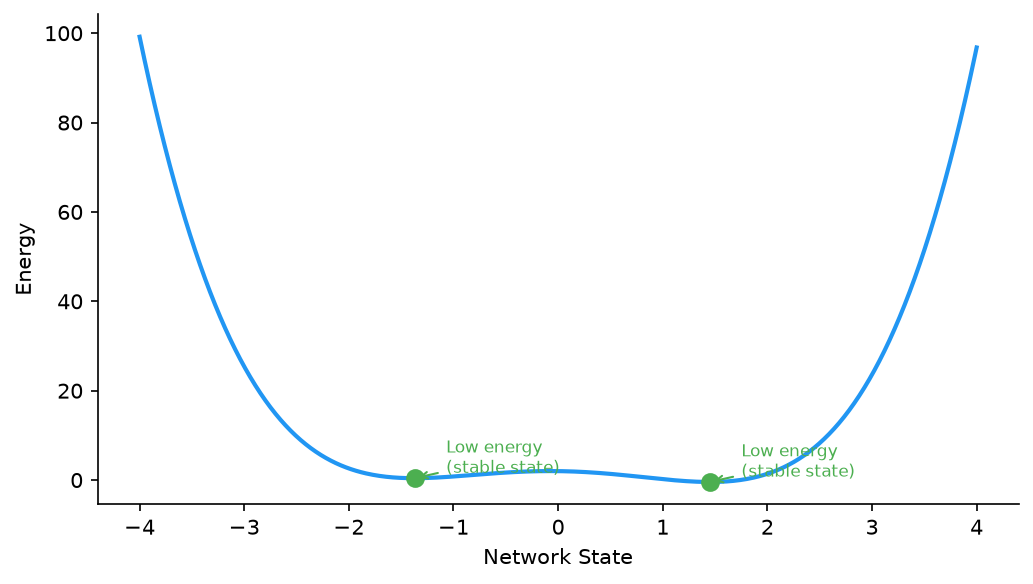
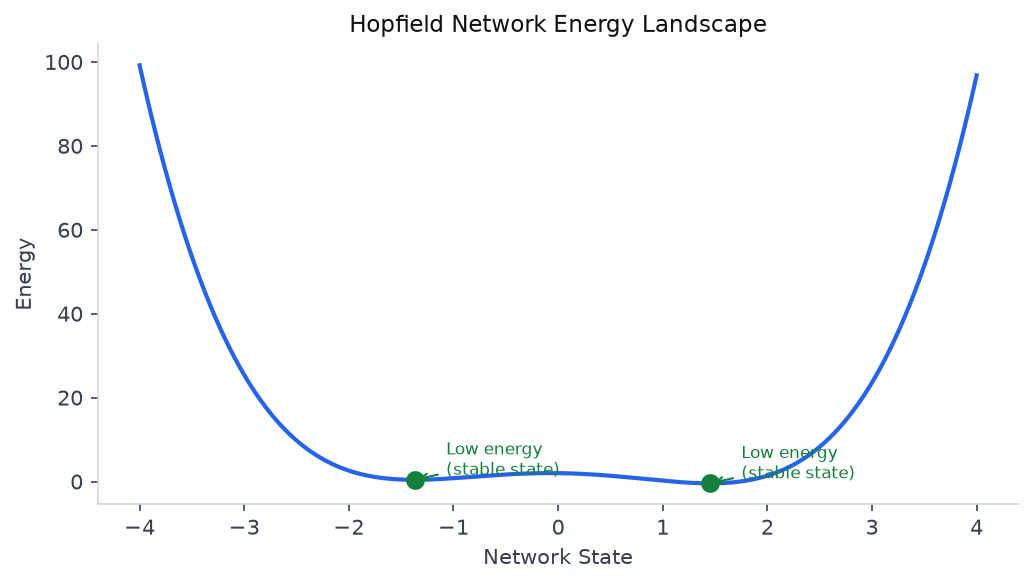
update note 08: convert all diagrams to light theme

diff --git a/notes/scripts/plot_competitive_learning.py b/notes/scripts/plot_competitive_learning.py
@@ -1,69 +1,67 @@
 import matplotlib.pyplot as plt
 import numpy as np
 import os
+from matplotlib.lines import Line2D
 
 rng = np.random.default_rng(42)
 
 clusters = [
-    (1.5, 7.0, '#388bfd', 'o', 'Cluster 1\n(●)'),
-    (6.5, 7.5, '#3fb950', 's', 'Cluster 2\n(■)'),
-    (3.5, 2.5, '#f0883e', '^', 'Cluster 3\n(▲)'),
+    (1.5, 7.0, '#dbeafe', '#2563eb', 'o', 'Cluster 1'),
+    (6.5, 7.5, '#dcfce7', '#15803d', 's', 'Cluster 2'),
+    (3.5, 2.5, '#fef3c7', '#b45309', '^', 'Cluster 3'),
 ]
 
 fig, axes = plt.subplots(1, 2, figsize=(11, 5))
-fig.patch.set_facecolor('#0d1117')
+fig.patch.set_facecolor('white')
 
 for ax, (title, show_prototypes) in zip(axes, [
     ('Before Competitive Learning\n(random prototypes)', False),
     ('After Competitive Learning\n(prototypes = cluster centroids)', True),
 ]):
-    ax.set_facecolor('#0d1117')
+    ax.set_facecolor('white')
 
-    for cx, cy, color, marker, _ in clusters:
+    for cx, cy, fill, border, marker, _ in clusters:
         pts = rng.normal(loc=[cx, cy], scale=0.8, size=(18, 2))
-        ax.scatter(pts[:, 0], pts[:, 1], c=color, marker=marker,
-                   s=50, alpha=0.7, zorder=3, edgecolors='none')
+        ax.scatter(pts[:, 0], pts[:, 1], c=fill, marker=marker,
+                   s=60, alpha=0.9, zorder=3, edgecolors=border, linewidths=0.8)
 
     if show_prototypes:
-        for cx, cy, color, marker, label in clusters:
-            ax.scatter(cx, cy, c=color, marker='*', s=350, zorder=5,
-                       edgecolors='white', linewidths=0.8)
-            ax.text(cx + 0.3, cy + 0.4, 'prototype', color=color, fontsize=8)
+        for cx, cy, fill, border, marker, label in clusters:
+            ax.scatter(cx, cy, c=fill, marker='*', s=350, zorder=5,
+                       edgecolors=border, linewidths=1.2)
+            ax.text(cx + 0.3, cy + 0.4, 'prototype', color=border, fontsize=8)
     else:
-        # Random initial prototypes
         rand_pts = [(2.5, 5.0), (5.0, 3.5), (4.5, 7.0)]
-        for (rx, ry), (_, _, color, _, _) in zip(rand_pts, clusters):
-            ax.scatter(rx, ry, c=color, marker='*', s=350, zorder=5,
-                       edgecolors='white', linewidths=0.8, alpha=0.5)
+        for (rx, ry), (_, _, fill, border, _, _) in zip(rand_pts, clusters):
+            ax.scatter(rx, ry, c=fill, marker='*', s=350, zorder=5,
+                       edgecolors=border, linewidths=1.2, alpha=0.6)
 
     ax.set_xlim(0, 9)
     ax.set_ylim(0, 10)
-    ax.set_xlabel('Feature 1', color='#8b949e', fontsize=9)
-    ax.set_ylabel('Feature 2', color='#8b949e', fontsize=9)
-    ax.tick_params(colors='#8b949e')
+    ax.set_xlabel('Feature 1', color='#374151', fontsize=9)
+    ax.set_ylabel('Feature 2', color='#374151', fontsize=9)
+    ax.tick_params(colors='#374151')
     for spine in ax.spines.values():
-        spine.set_edgecolor('#30363d')
-    ax.set_title(title, color='#e6edf3', fontsize=10, pad=8)
+        spine.set_edgecolor('#d1d5db')
+    ax.set_title(title, color='#111111', fontsize=10, pad=8)
 
-# Legend
-from matplotlib.lines import Line2D
 legend_elements = [
-    Line2D([0], [0], marker='o', color='w', markerfacecolor='#388bfd',
-           markersize=9, label='Cluster 1', linestyle='None'),
-    Line2D([0], [0], marker='s', color='w', markerfacecolor='#3fb950',
-           markersize=9, label='Cluster 2', linestyle='None'),
-    Line2D([0], [0], marker='^', color='w', markerfacecolor='#f0883e',
-           markersize=9, label='Cluster 3', linestyle='None'),
-    Line2D([0], [0], marker='*', color='w', markerfacecolor='white',
-           markersize=11, label='Prototype (winner neuron)', linestyle='None'),
+    Line2D([0], [0], marker='o', color='w', markerfacecolor='#dbeafe',
+           markeredgecolor='#2563eb', markersize=9, label='Cluster 1', linestyle='None'),
+    Line2D([0], [0], marker='s', color='w', markerfacecolor='#dcfce7',
+           markeredgecolor='#15803d', markersize=9, label='Cluster 2', linestyle='None'),
+    Line2D([0], [0], marker='^', color='w', markerfacecolor='#fef3c7',
+           markeredgecolor='#b45309', markersize=9, label='Cluster 3', linestyle='None'),
+    Line2D([0], [0], marker='*', color='w', markerfacecolor='#f3f4f6',
+           markeredgecolor='#374151', markersize=11, label='Prototype (winner neuron)', linestyle='None'),
 ]
 fig.legend(handles=legend_elements, loc='lower center', ncol=4,
-           facecolor='#161b22', edgecolor='#30363d', labelcolor='#e6edf3',
+           facecolor='white', edgecolor='#d1d5db', labelcolor='#111111',
            fontsize=9, bbox_to_anchor=(0.5, -0.05))
 
-fig.suptitle('Competitive Learning — Winner-Takes-All Clustering', color='#e6edf3',
+fig.suptitle('Competitive Learning — Winner-Takes-All Clustering', color='#111111',
              fontsize=12, y=1.02)
 plt.tight_layout()
 out = os.path.join(os.path.dirname(__file__), '..', 'images', 'competitive_learning.png')
-plt.savefig(out, dpi=150, bbox_inches='tight', facecolor=fig.get_facecolor())
+plt.savefig(out, dpi=150, bbox_inches='tight', facecolor='white', edgecolor='none')
 plt.close()

diff --git a/notes/scripts/plot_energy_landscape.py b/notes/scripts/plot_energy_landscape.py
@@ -3,31 +3,33 @@ import numpy as np
 import matplotlib.pyplot as plt
 
 x = np.linspace(-4, 4, 500)
-
-# Energy landscape: two valleys (stable states) with a hill between
 energy = 0.5 * (x**2 - 2)**2 - 0.3 * x
 
 fig, ax = plt.subplots(figsize=(7, 4))
+fig.patch.set_facecolor('white')
+ax.set_facecolor('white')
 
-ax.plot(x, energy, color="#2196F3", linewidth=2)
+ax.plot(x, energy, color='#2563eb', linewidth=2)
 
-# Mark the two local minima
 minima_x = [x[np.argmin(energy[:250])], x[250 + np.argmin(energy[250:])]]
 for mx in minima_x:
     my = 0.5 * (mx**2 - 2)**2 - 0.3 * mx
-    ax.plot(mx, my, "o", color="#4CAF50", markersize=8, zorder=5)
-    ax.annotate("Low energy\n(stable state)", xy=(mx, my),
+    ax.plot(mx, my, 'o', color='#15803d', markersize=8, zorder=5)
+    ax.annotate('Low energy\n(stable state)', xy=(mx, my),
                 xytext=(mx + 0.3, my + 1.2),
-                fontsize=8, color="#4CAF50",
-                arrowprops=dict(arrowstyle="->", color="#4CAF50", lw=1))
+                fontsize=8, color='#15803d',
+                arrowprops=dict(arrowstyle='->', color='#15803d', lw=1))
 
-ax.set_xlabel("Network State")
-ax.set_ylabel("Energy")
-ax.spines["top"].set_visible(False)
-ax.spines["right"].set_visible(False)
+ax.set_xlabel('Network State', color='#374151')
+ax.set_ylabel('Energy', color='#374151')
+ax.tick_params(colors='#374151')
+for spine in ax.spines.values():
+    spine.set_edgecolor('#d1d5db')
+ax.spines['top'].set_visible(False)
+ax.spines['right'].set_visible(False)
+ax.set_title('Hopfield Network Energy Landscape', color='#111111', fontsize=11)
 
 plt.tight_layout()
-
-out = os.path.join(os.path.dirname(__file__), "..", "images", "energy_landscape.png")
-plt.savefig(out, dpi=150, bbox_inches="tight")
-print("saved:", os.path.abspath(out))
+out = os.path.join(os.path.dirname(__file__), '..', 'images', 'energy_landscape.png')
+plt.savefig(out, dpi=150, bbox_inches='tight', facecolor='white', edgecolor='none')
+plt.close()
